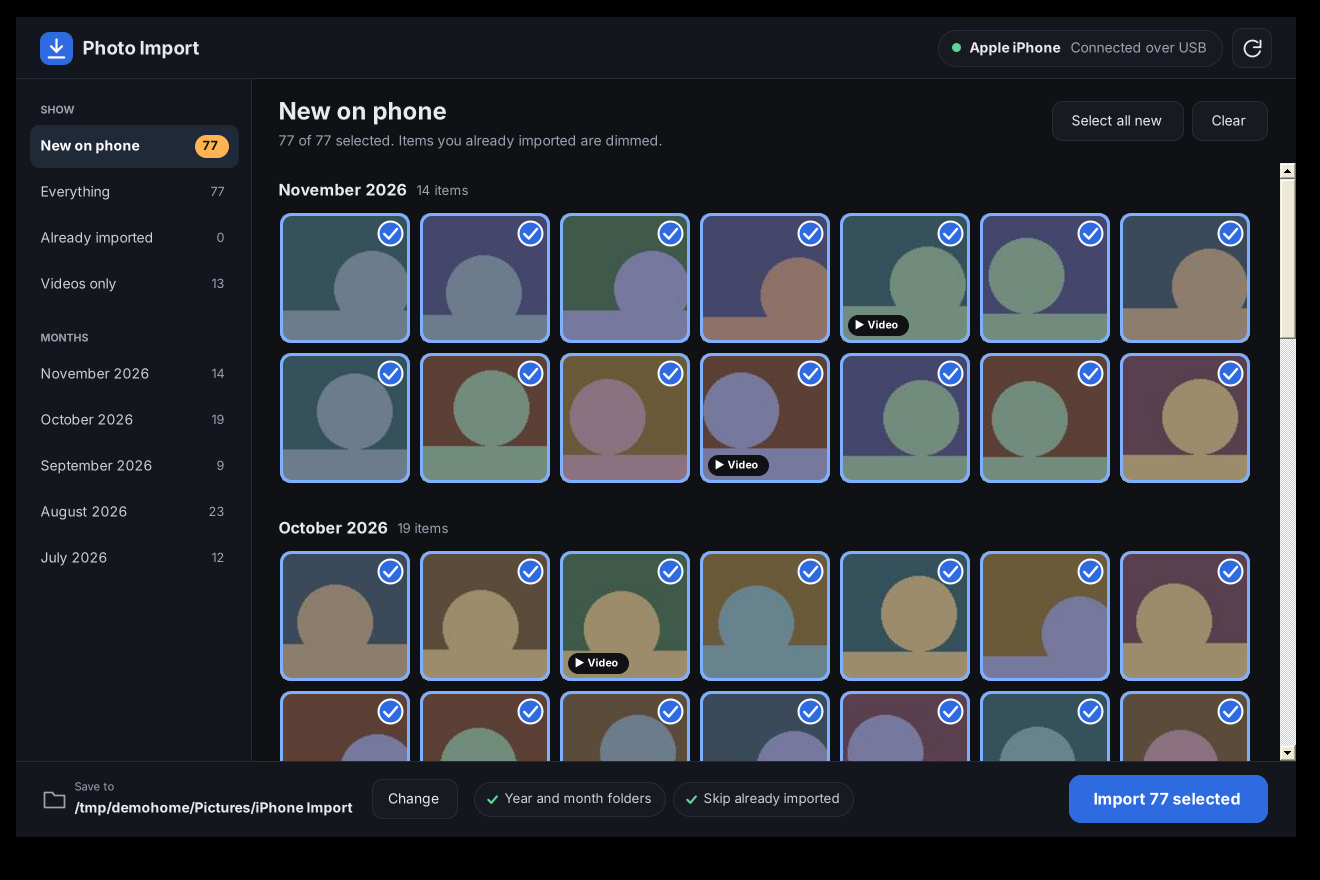
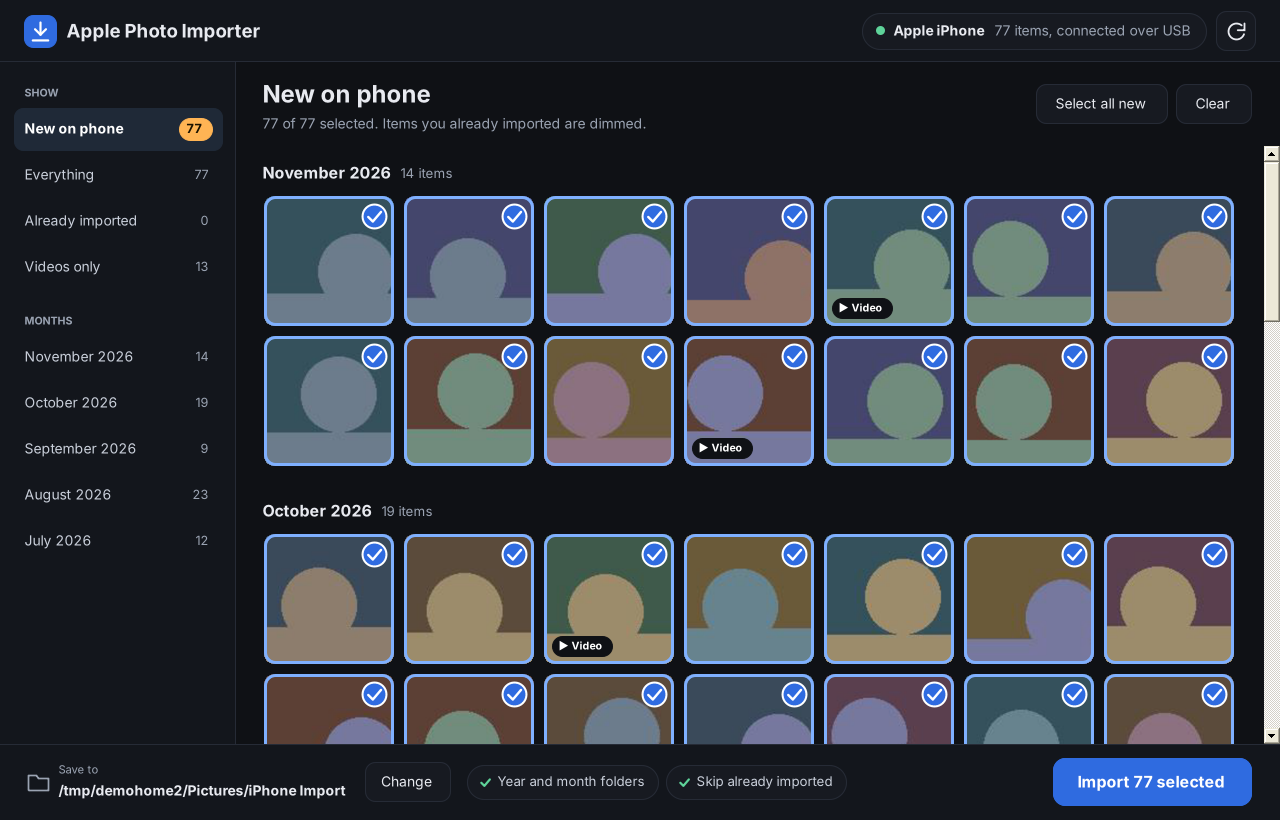
Rename to Apple Photo Importer for Windows by Magnetic WP (2.2)
Adds author and donation links, publisher details in the installer,
a funding file, and cleanup of the earlier "Photo Import" install.

diff --git a/src/MainForm.cs b/src/MainForm.cs
@@ -30,7 +30,7 @@ namespace PhotoImport
         {
             string text = Convert.ToString(error);
             try { File.WriteAllText(Path.Combine(Path.GetTempPath(), "PhotoImport-error.txt"), text); } catch { }
-            MessageBox.Show(text.Length > 1500 ? text.Substring(0, 1500) : text, "Photo Import could not start", MessageBoxButtons.OK, MessageBoxIcon.Error);
+            MessageBox.Show(text.Length > 1500 ? text.Substring(0, 1500) : text, "Apple Photo Importer could not start", MessageBoxButtons.OK, MessageBoxIcon.Error);
         }
 
         [System.Runtime.CompilerServices.MethodImpl(System.Runtime.CompilerServices.MethodImplOptions.NoInlining)]
@@ -41,7 +41,7 @@ namespace PhotoImport
             Application.SetCompatibleTextRenderingDefault(false);
             Application.ThreadException += delegate(object s, ThreadExceptionEventArgs e)
             {
-                MessageBox.Show(e.Exception.Message, "Photo Import", MessageBoxButtons.OK, MessageBoxIcon.Warning);
+                MessageBox.Show(e.Exception.Message, "Apple Photo Importer", MessageBoxButtons.OK, MessageBoxIcon.Warning);
             };
             foreach (string a in args)
             {
@@ -106,7 +106,7 @@ namespace PhotoImport
             WpdDevice.Log = Note;
             Theme.LoadFonts();
 
-            Text = "Photo Import";
+            Text = "Apple Photo Importer";
             BackColor = Theme.Bg;
             ForeColor = Theme.Text;
             AutoScaleMode = AutoScaleMode.None;

diff --git a/src/Ui.cs b/src/Ui.cs
@@ -298,7 +298,7 @@ namespace PhotoImport
                 g.DrawLines(pen, new[] { new PointF(cx - q, b - q), new PointF(cx, b), new PointF(cx + q, b - q) });
                 g.DrawLine(pen, cx - logo * 0.24f, lr.Y + logo * 0.78f, cx + logo * 0.24f, lr.Y + logo * 0.78f);
             }
-            Theme.Draw(g, "Photo Import", Theme.Font(15f, true), Theme.Text, new Rectangle(lr.Right + Theme.S(12), 0, Theme.S(240), Height), Theme.Left);
+            Theme.Draw(g, "Apple Photo Importer", Theme.Font(15f, true), Theme.Text, new Rectangle(lr.Right + Theme.S(12), 0, Theme.S(320), Height), Theme.Left);
 
             Font strong = Theme.Font(11.5f, true), plain = Theme.Font(11.5f, false);
             int wd = Device.Length > 0 ? Theme.Width(Device, strong) + Theme.S(10) : 0, ws = Theme.Width(Status, plain);

diff --git a/src/Thumb.cs b/src/Thumb.cs
@@ -5,7 +5,8 @@ using System.Reflection;
 using System.Runtime.InteropServices;
 using System.Runtime.InteropServices.ComTypes;
 
-[assembly: AssemblyTitle("Photo Import HEIC thumbnails")]
+[assembly: AssemblyTitle("Apple Photo Importer HEIC thumbnails")]
+[assembly: AssemblyCompany("Magnetic WP")]
 [assembly: AssemblyVersion("1.0.0.0")]
 [assembly: ComVisible(false)]
 

diff --git a/src/AssemblyInfo.cs b/src/AssemblyInfo.cs
@@ -1,0 +1,7 @@
+using System.Reflection;
+
+[assembly: AssemblyTitle("Apple Photo Importer for Windows")]
+[assembly: AssemblyProduct("Apple Photo Importer for Windows")]
+[assembly: AssemblyCompany("Magnetic WP")]
+[assembly: AssemblyCopyright("Copyright (C) 2026 Magnetic WP")]
+[assembly: AssemblyVersion("2.2.0.0")]

diff --git a/README.md b/README.md
@@ -1,4 +1,6 @@
-# Photo Import
+# Apple Photo Importer for Windows
+
+by [Magnetic WP](https://www.magneticwp.com/)
 
 A Windows desktop app that copies photos and videos from an iPhone to a PC over USB, shows HEIC thumbnails in File Explorer, and includes a photo viewer. No iTunes, no iCloud, no Microsoft Store add-ons.
 
@@ -29,7 +31,7 @@ A Windows desktop app that copies photos and videos from an iPhone to a PC over 
 
 1. Download `PhotoImportSetup.exe` from the [Releases](../../releases) page.
 2. Run it. The installer is not code-signed, so Windows SmartScreen shows a warning: choose **More info**, then **Run anyway**.
-3. Plug in the iPhone, unlock it, tap **Allow** on the phone, and open **Photo Import** from the desktop shortcut.
+3. Plug in the iPhone, unlock it, tap **Allow** on the phone, and open **Apple Photo Importer** from the desktop shortcut.
 
 Requirements: 64-bit Windows 10 or 11 (uses the .NET Framework 4.8 that ships with Windows).
 
@@ -78,10 +80,18 @@ Run the app with `--demo` to try the interface with a simulated phone.
 | `src/Thumb.cs` | The File Explorer thumbnail handler |
 | `installer.nsi` | NSIS installer script |
 
+## Author and support
+
+Made by [Magnetic WP](https://www.magneticwp.com/).
+
+If this app saved you some time, you can support its development on [Ko-fi](https://ko-fi.com/magneticwp).
+
 ## Licence
 
-Photo Import is free software, released under the [GNU General Public License v3.0](LICENSE).
+Copyright (C) 2026 Magnetic WP.
+
+Apple Photo Importer for Windows is free software, released under the [GNU General Public License v3.0](LICENSE).
 
 The installer bundles third-party components under their own licences (libheif, libde265, x265, the MinGW-w64 runtime and the Afacad Flux font). See [THIRD-PARTY-NOTICES.md](THIRD-PARTY-NOTICES.md).
 
-iPhone is a trademark of Apple Inc. This project is not affiliated with or endorsed by Apple.
+Apple and iPhone are trademarks of Apple Inc. This project is an independent tool and is not affiliated with, sponsored by or endorsed by Apple.

diff --git a/THIRD-PARTY-NOTICES.md b/THIRD-PARTY-NOTICES.md
@@ -1,6 +1,6 @@
 # Third-party notices
 
-Photo Import's own source code is licensed under the GNU General Public License v3.0 (see `LICENSE`).
+The source code of Apple Photo Importer for Windows (by Magnetic WP) is licensed under the GNU General Public License v3.0 (see `LICENSE`).
 
 The installer (`PhotoImportSetup.exe`) also contains the components below. They are not modified. The decoder DLLs are taken unchanged from the Windows x64 wheel of [pillow-heif](https://github.com/bigcat88/pillow_heif) 1.8.1, whose own list of bundled licences is installed next to the app as `Third-party licenses.txt`.
 
@@ -11,7 +11,7 @@ The installer (`PhotoImportSetup.exe`) also contains the components below. They 
 | x265 | 4.3 | GPL-2.0 | https://github.com/Multicorewareinc/x265/tree/4.3 |
 | MinGW-w64 runtime (libgcc, libstdc++, libwinpthread) | as shipped in the wheel | GPL-3.0 with GCC Runtime Library Exception; MIT and BSD | https://sourceforge.net/p/mingw-w64/mingw-w64/ |
 
-x265 is an encoder. Photo Import only decodes and never calls it; it is present because the prebuilt libheif DLL links against it.
+x265 is an encoder. The app only decodes and never calls it; it is present because the prebuilt libheif DLL links against it.
 
 ## Font
 
